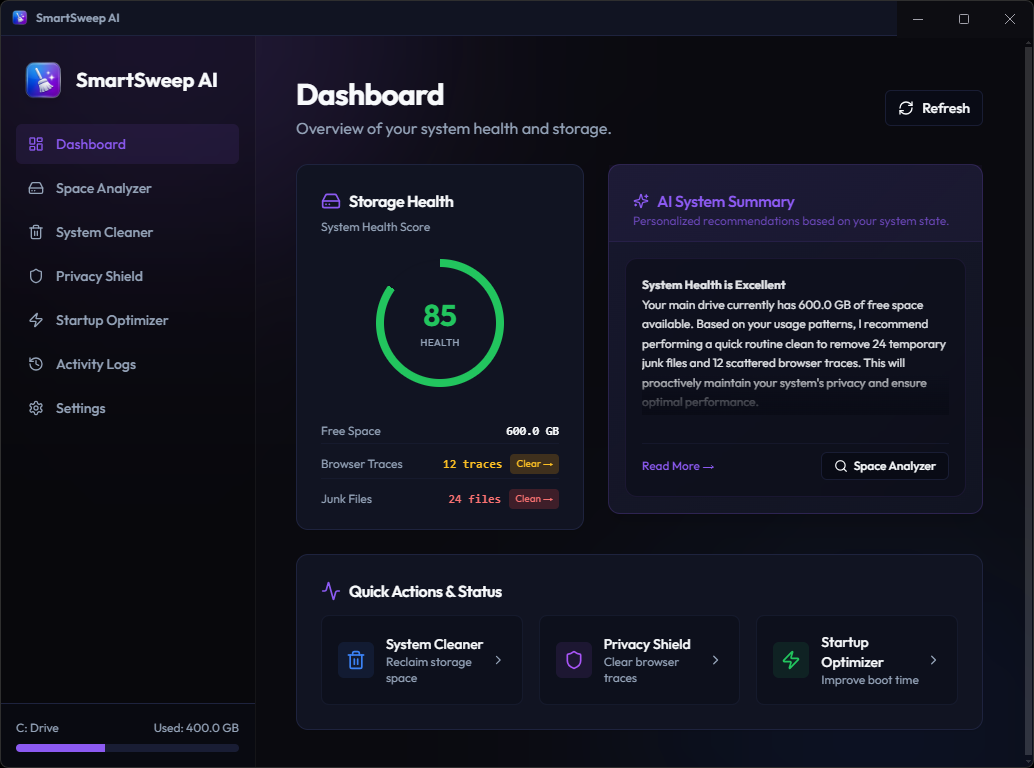
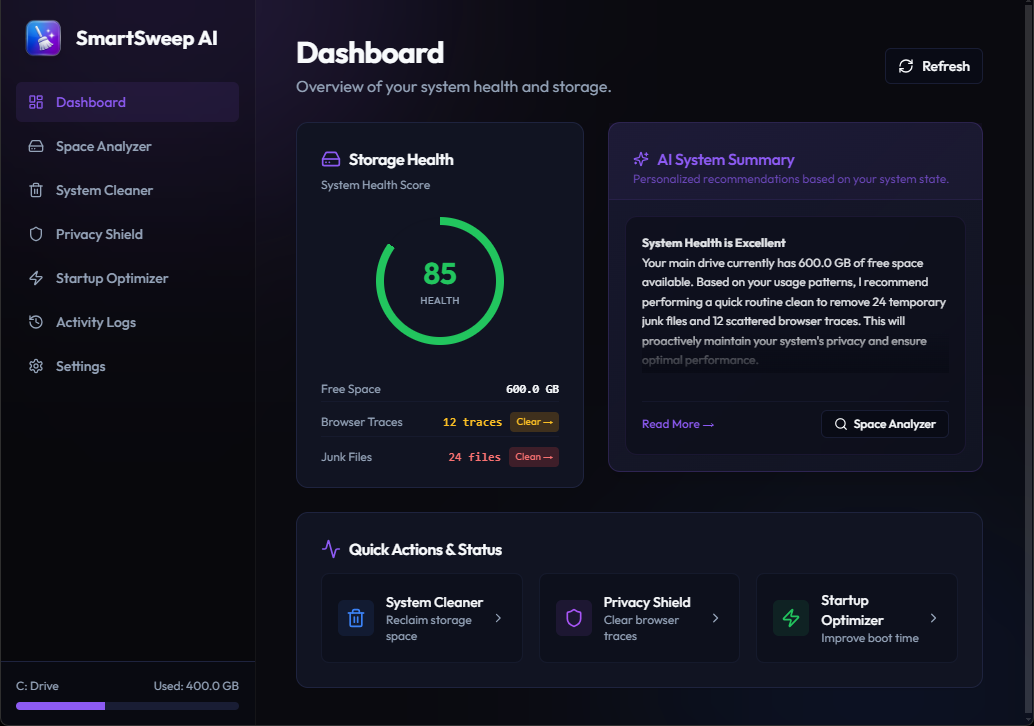
Update mockup with glare effect and fix privacy shield warnings

diff --git a/website/src/index.css b/website/src/index.css
@@ -216,6 +216,19 @@ h1, h2, h3 {
   border-bottom-right-radius: 12px;
 }
 
+/* Shiny reflection over the screen */
+.mockup-glare {
+  position: absolute;
+  top: 0;
+  left: 0;
+  right: 0;
+  bottom: 0;
+  background: linear-gradient(105deg, rgba(255,255,255,0) 30%, rgba(255,255,255,0.08) 45%, rgba(255,255,255,0) 60%);
+  pointer-events: none;
+  z-index: 20;
+  border-radius: 12px;
+}
+
 /* Navigation */
 .navbar {
   position: fixed;

diff --git a/src/pages/PrivacyShieldView.tsx b/src/pages/PrivacyShieldView.tsx
@@ -91,7 +91,9 @@ export function PrivacyShieldView() {
 
           if (res.openBrowsers && res.openBrowsers.length > 0) {
             const browserList = res.openBrowsers.join(', ');
-            setLockedWarning(`⚠️ Notice: ${browserList} is currently running in the background (even if you closed its window, Chrome/Edge background processes often remain active in the System Tray). Please right-click ${browserList} in the System Tray and Exit, then click 'Clean Selected' again.`);
+            const verb = res.openBrowsers.length > 1 ? 'are' : 'is';
+            const pronoun = res.openBrowsers.length > 1 ? 'their windows' : 'its window';
+            setLockedWarning(`⚠️ Notice: ${browserList} ${verb} currently running in the background. Even if you closed ${pronoun}, background processes often remain active. Please fully close them via the System Tray (near the clock) or Task Manager, then click 'Clean Selected' again.`);
           } else if (res.totalFailed > 0) {
             setLockedWarning(`⚠️ Notice: ${res.totalFailed} cache files were locked by active system processes and safely skipped.`);
           }

diff --git a/website/src/App.jsx b/website/src/App.jsx
@@ -73,6 +73,7 @@ function App() {
                   e.target.style.display = 'none';
                   e.target.nextSibling.style.display = 'flex';
                 }}/>
+                <div className="mockup-glare"></div>
                 <div style={{ display: 'none', width: '100%', height: '600px', background: '#0A0A0F', alignItems: 'center', justifyContent: 'center', color: '#666' }}>
                   [ Dashboard Screenshot Placeholder ]
                 </div>